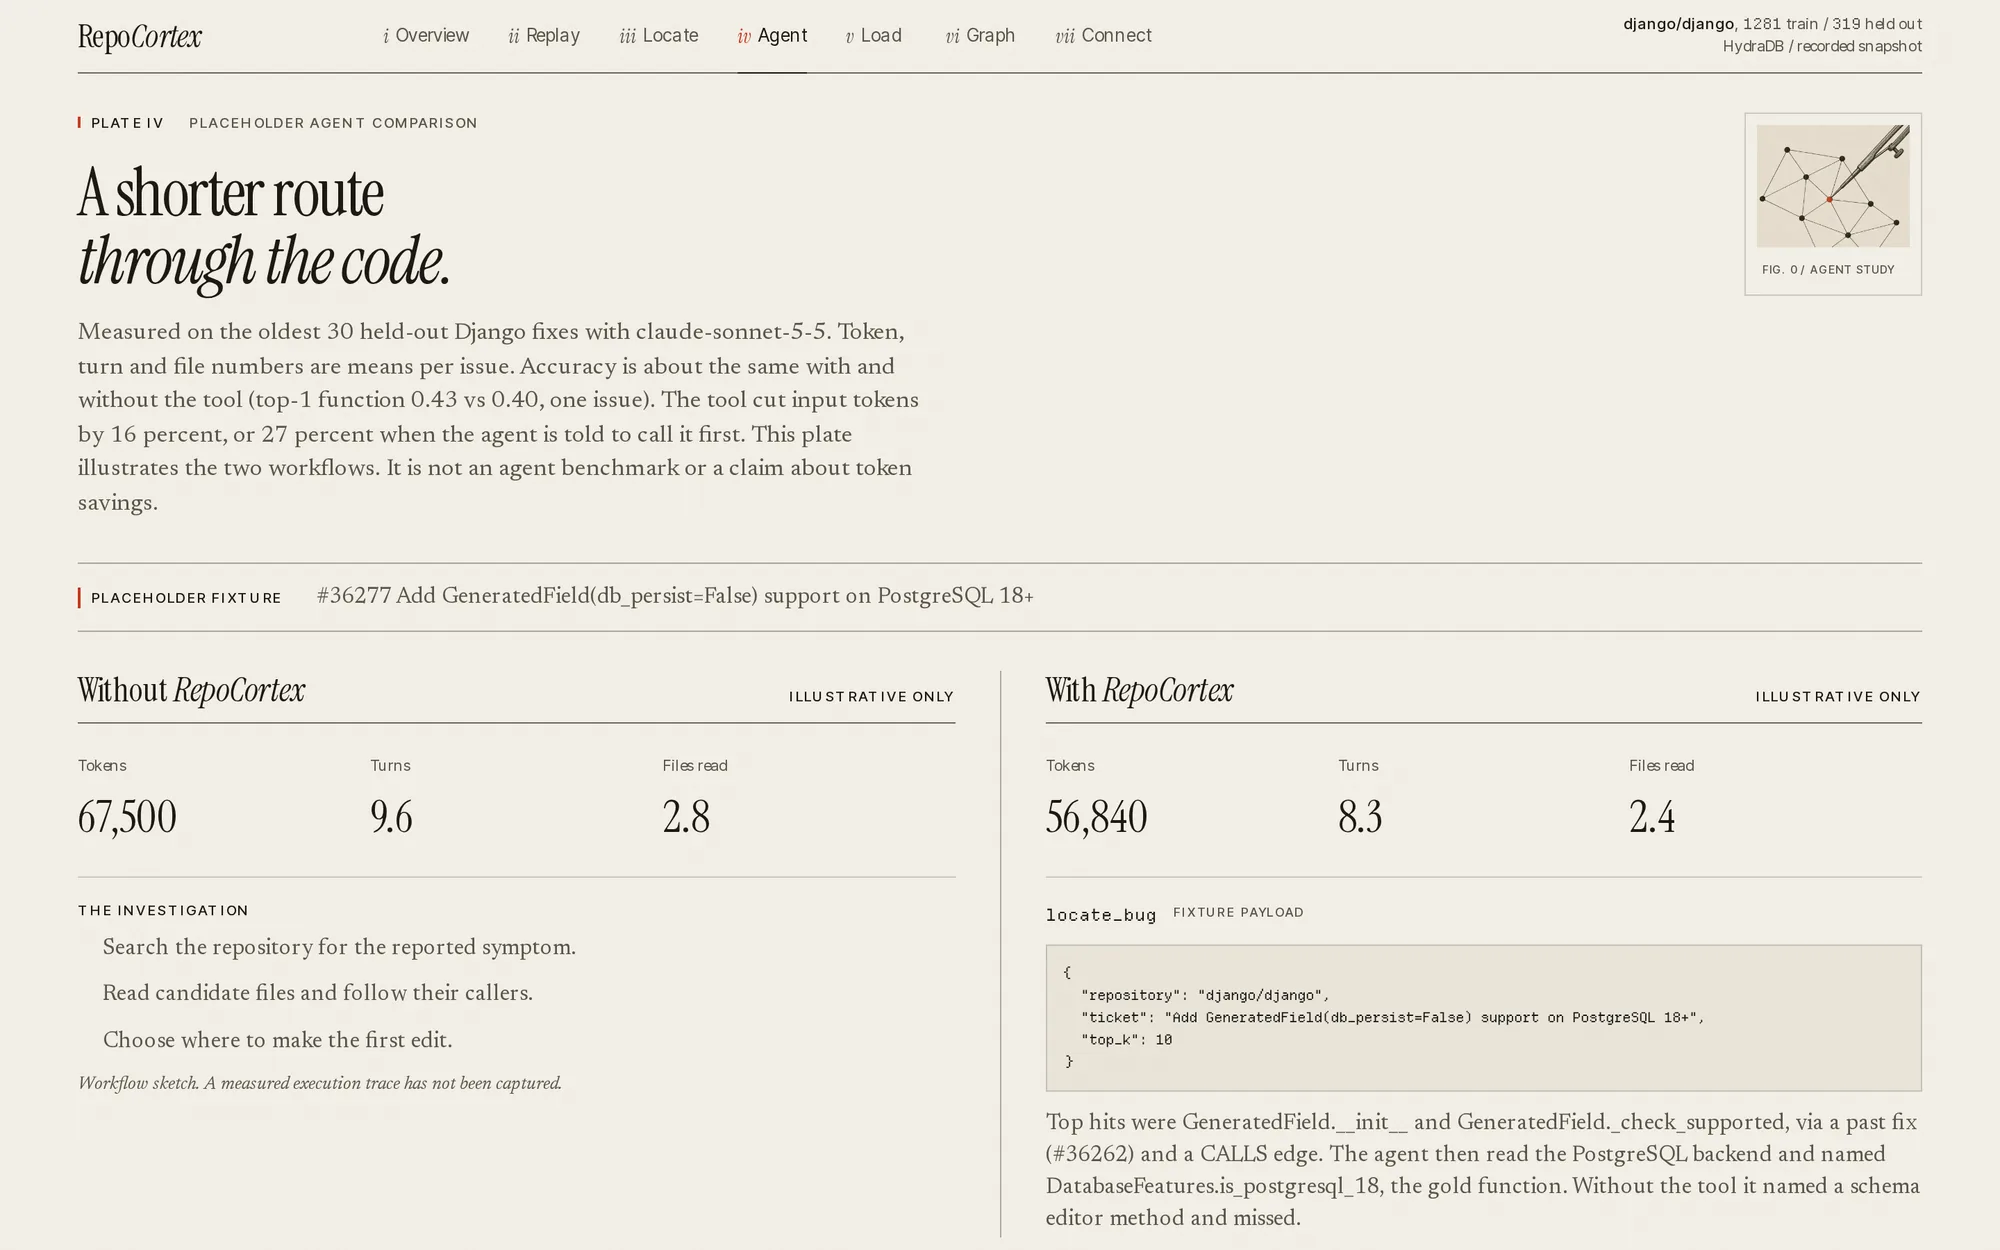
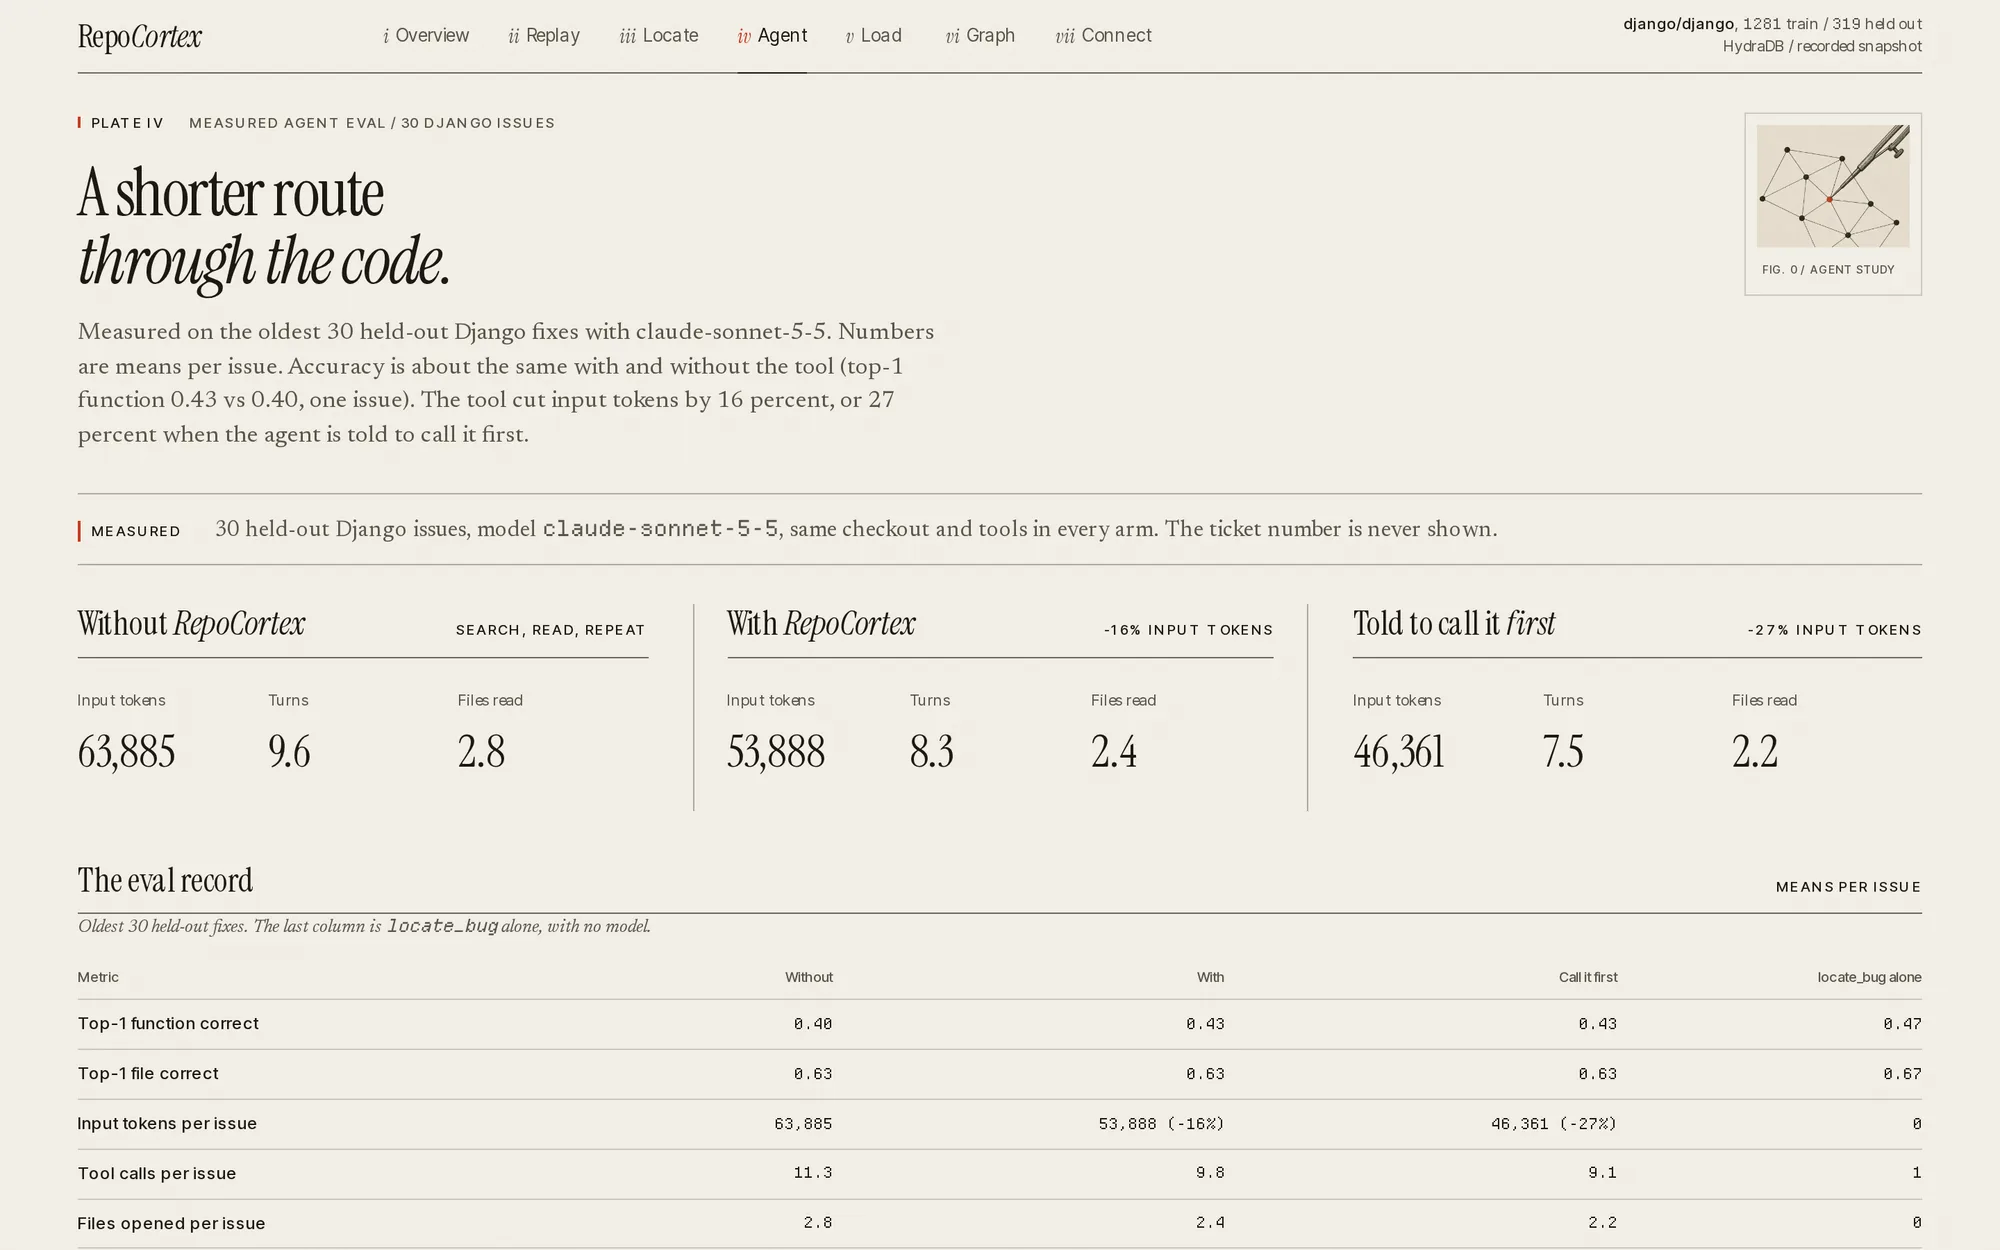
show the measured agent eval on the agent screen

diff --git a/web/app/app/agent/page.tsx b/web/app/app/agent/page.tsx
@@ -2,22 +2,53 @@ import type { Metadata } from "next";
 import Link from "next/link";
 import { PlateHeading } from "@/components/dashboard/plate-heading";
 import agent from "@/public/data/agent.json";
-import provenance from "@/public/data/provenance.json";
 
 export const metadata: Metadata = { title: "Agent" };
 
+const n = (value: number) => value.toLocaleString("en-US");
+const share = (value: number) => value.toFixed(2);
+const usd = (value: number) => `$${value.toFixed(3)}`;
+
+const arms = [
+  { key: "without", title: <>Without <i>RepoCortex</i></>, note: "search, read, repeat" },
+  { key: "with", title: <>With <i>RepoCortex</i></>, note: `-${agent.savings.with_input_tokens_pct}% input tokens` },
+  { key: "with_locate_first", title: <>Told to call it <i>first</i></>, note: `-${agent.savings.first_input_tokens_pct}% input tokens` },
+] as const;
+
 export default function Agent() {
+  const rows: [string, string, string, string, string][] = [
+    ["Top-1 function correct", share(agent.without.top1_function_hit), share(agent.with.top1_function_hit), share(agent.with_locate_first.top1_function_hit), share(agent.tool_only.top1_function_hit)],
+    ["Top-1 file correct", share(agent.without.top1_file_hit), share(agent.with.top1_file_hit), share(agent.with_locate_first.top1_file_hit), share(agent.tool_only.top1_file_hit)],
+    ["Input tokens per issue", n(agent.without.tokens), `${n(agent.with.tokens)} (-${agent.savings.with_input_tokens_pct}%)`, `${n(agent.with_locate_first.tokens)} (-${agent.savings.first_input_tokens_pct}%)`, "0"],
+    ["Tool calls per issue", String(agent.without.tool_calls_mean), String(agent.with.tool_calls_mean), String(agent.with_locate_first.tool_calls_mean), "1"],
+    ["Files opened per issue", String(agent.without.files_read), String(agent.with.files_read), String(agent.with_locate_first.files_read), "0"],
+    ["Cost per issue", usd(agent.without.cost_usd_mean), `${usd(agent.with.cost_usd_mean)} (-${agent.savings.with_cost_pct}%)`, `${usd(agent.with_locate_first.cost_usd_mean)} (-${agent.savings.first_cost_pct}%)`, "$0"],
+  ];
   return (
     <div className="manual-page supporting-screen">
-      <PlateHeading chapter="agent" title={<>A shorter route<br /><i>through the code.</i></>} placeholder="Placeholder agent comparison"><p>{agent.note} This plate illustrates the two workflows. It is not an agent benchmark or a claim about token savings.</p></PlateHeading>
-      <div className="fixture-banner"><span className="sc">Placeholder fixture</span><p>{agent.ticket}</p></div>
-      <div className="agent-comparison">
-        {(["without", "with"] as const).map((mode) => <section key={mode} aria-labelledby={`agent-${mode}-title`}><div className="section-rule"><h2 id={`agent-${mode}-title`}>{mode === "with" ? <>With <i>RepoCortex</i></> : <>Without <i>RepoCortex</i></>}</h2><span className="sc">Illustrative only</span></div>
-          <dl className="agent-fixture-numbers"><div><dt>Tokens</dt><dd>{agent[mode].tokens.toLocaleString("en-US")}</dd></div><div><dt>Turns</dt><dd>{agent[mode].turns}</dd></div><div><dt>Files read</dt><dd>{agent[mode].files_read}</dd></div></dl>
-          {mode === "without" ? <div className="agent-workflow"><p className="sc">The investigation</p><ol><li>Search the repository for the reported symptom.</li><li>Read candidate files and follow their callers.</li><li>Choose where to make the first edit.</li></ol><p className="figure-note">Workflow sketch. A measured execution trace has not been captured.</p></div> : <div className="agent-tool-calls">{agent.with.tool_calls.map((call) => <details key={call.name} open><summary>{call.name} <span className="sc">Fixture payload</span></summary><pre>{JSON.stringify(call.args, null, 2)}</pre><p className="manual-prose">{call.result_summary}</p></details>)}</div>}
+      <PlateHeading chapter="agent" title={<>A shorter route<br /><i>through the code.</i></>} placeholder={`Measured agent eval / ${agent.n} Django issues`}><p>{agent.note}</p></PlateHeading>
+      <div className="fixture-banner"><span className="sc">Measured</span><p>{agent.n} held-out Django issues, model <code>{agent.model}</code>, same checkout and tools in every arm. The ticket number is never shown.</p></div>
+      <div className="agent-comparison agent-comparison-three">
+        {arms.map((arm) => <section key={arm.key} aria-labelledby={`agent-${arm.key}-title`}><div className="section-rule"><h2 id={`agent-${arm.key}-title`}>{arm.title}</h2><span className="sc">{arm.note}</span></div>
+          <dl className="agent-fixture-numbers"><div><dt>Input tokens</dt><dd>{n(agent[arm.key].tokens)}</dd></div><div><dt>Turns</dt><dd>{agent[arm.key].turns}</dd></div><div><dt>Files read</dt><dd>{agent[arm.key].files_read}</dd></div></dl>
         </section>)}
       </div>
-      <aside className="measured-aside"><span className="sc">What is measured</span><p>The held-out provenance contains <span className="num">{provenance.hits_with_fixed_in}</span> hits with FIXED_IN evidence and <span className="num">{provenance.hits_with_shortcut}</span> with SHORTCUT evidence. These counts can overlap. They do not measure agent efficiency.</p><Link href="/app/locate">Inspect a real receipt →</Link></aside>
+      <section className="agent-table" aria-labelledby="agent-table-title">
+        <div className="section-rule"><h2 id="agent-table-title">The eval record</h2><span className="sc">Means per issue</span></div>
+        <div className="manual-table-scroll" role="region" aria-label="Agent eval results" tabIndex={0}>
+          <table className="manual-table">
+            <caption>Oldest {agent.n} held-out fixes. The last column is <code>locate_bug</code> alone, with no model.</caption>
+            <thead><tr><th scope="col">Metric</th><th scope="col">Without</th><th scope="col">With</th><th scope="col">Call it first</th><th scope="col">locate_bug alone</th></tr></thead>
+            <tbody>{rows.map(([label, ...cells]) => <tr key={label}><th scope="row">{label}</th>{cells.map((cell, index) => <td key={index}>{cell}</td>)}</tr>)}</tbody>
+          </table>
+        </div>
+        <p className="figure-note">Accuracy is within noise across arms: one issue out of {agent.n}. <code>locate_bug</code> alone names the right function first {share(agent.tool_only.top1_function_hit)} of the time against {share(agent.without.top1_function_hit)} for the agent searching by itself, in under a second and with no model call.</p>
+      </section>
+      <section className="agent-example" aria-labelledby="agent-example-title">
+        <div className="section-rule"><h2 id="agent-example-title">One run, <i>{agent.ticket}</i></h2><span className="sc">Measured trace</span></div>
+        <div className="agent-tool-calls">{agent.with.tool_calls.map((call) => <details key={call.name} open><summary>{call.name}</summary><pre>{JSON.stringify(call.args, null, 2)}</pre><p className="manual-prose">{call.result_summary}</p></details>)}</div>
+      </section>
+      <aside className="measured-aside"><span className="sc">Source</span><p><code>{agent.source}</code> and <code>{agent.tool_only.source}</code>. Thirty issues, one model, one run each, so small differences are noise.</p><Link href="/app/locate">Inspect a real receipt →</Link></aside>
     </div>
   );
 }

diff --git a/web/app/page.tsx b/web/app/page.tsx
@@ -119,38 +119,38 @@ export default function Home() {
             <SectionHead number="04" label="Context" title="Your agent reads less." />
             <FixtureLabel show={agent.placeholder} />
           </div>
-          <p className="section-dek">Same agent, same ticket. One of them read half the repo first.</p>
+          <p className="section-dek">Same agent, same {agent.n} tickets. One of them asked the graph first.</p>
           <p className="news source-note">{agent.note}</p>
           <p className="terminal-ticket"><span className="sc">Ticket</span> {agent.ticket}</p>
           <div className="terminal-pair">
             {(["without", "with"] as const).map((mode) => (
               <figure className={`terminal terminal-${mode}`} key={mode}>
-                <figcaption><span className="sc">{mode === "with" ? "With RepoCortex" : "Without RepoCortex"}</span><span className="num">trace / illustrative</span></figcaption>
+                <figcaption><span className="sc">{mode === "with" ? "With RepoCortex" : "Without RepoCortex"}</span><span className="num">measured run</span></figcaption>
                 <div className="terminal-body num">
                   {mode === "without" ? (
                     <>
                       <p><span className="terminal-prompt">$</span> investigate ticket</p>
-                      <p className="terminal-muted">› search &quot;ModelChoiceField&quot;<br />› read django/forms/fields.py<br />› read django/forms/forms.py<br />› search &quot;to_field_name&quot;<br />› read django/forms/models.py<br />› read django/db/models/query.py<br />… follow references, read, repeat</p>
+                      <p className="terminal-muted">› search_code x {agent.example.without.calls_by_tool.search_code}<br />› read_file x {agent.example.without.calls_by_tool.read_file}<br />› {agent.example.without.files_opened} files opened<br />› {agent.example.without.turns} turns, {number(agent.example.without.tokens_in)} input tokens</p>
                     </>
                   ) : (
                     <>
                       <p><span className="terminal-prompt">$</span> {agent.with.tool_calls[0].name}(&#123;</p>
-                      <p className="terminal-muted indent">repository: &quot;{agent.with.tool_calls[0].args.repository}&quot;,<br />ticket: &quot;{agent.ticket}&quot;,<br />top_k: {agent.with.tool_calls[0].args.top_k}</p>
+                      <p className="terminal-muted indent">report: &quot;{agent.with.tool_calls[0].args.report}&quot;,<br />k: {agent.with.tool_calls[0].args.k}</p>
                       <p>&#125;)</p>
                       <p className="terminal-result">{agent.with.tool_calls[0].result_summary}</p>
-                      <p className="terminal-muted">› inspect the returned functions<br />› prepare a targeted edit</p>
+                      <p className="terminal-muted">› {agent.example.with.turns} turns, {number(agent.example.with.tokens_in)} input tokens</p>
                     </>
                   )}
                 </div>
                 <dl className="terminal-stats">
-                  <div><dt>Context tokens</dt><dd className="num">{number(agent[mode].tokens)}</dd></div>
+                  <div><dt>Input tokens, mean</dt><dd className="num">{number(agent[mode].tokens)}</dd></div>
                   <div><dt>Turns</dt><dd className="num">{agent[mode].turns}</dd></div>
                   <div><dt>Files read</dt><dd className="num">{agent[mode].files_read}</dd></div>
                 </dl>
               </figure>
             ))}
           </div>
-          <p className="figure-caption"><b>FIG. 4</b> A preview of the comparison, not a measured token-saving claim.</p>
+          <p className="figure-caption"><b>FIG. 4</b> Traces are one measured run on {agent.ticket}. Totals are means over {agent.n} held-out issues with {agent.model}: {agent.savings.with_input_tokens_pct}% fewer input tokens with the tool, {agent.savings.first_input_tokens_pct}% when told to call it first.</p>
         </section>
 
         <section className="landing-section load-section">

diff --git a/web/lib/data.ts b/web/lib/data.ts
@@ -127,12 +127,35 @@ export interface ProvenanceData {
 
 interface AgentTrace {
   tokens: number;
+  output_tokens: number;
   turns: number;
   files_read: number;
+  tool_calls_mean: number;
+  locate_bug_calls_mean: number;
+  top1_function_hit: number;
+  top1_file_hit: number;
+  "function_acc@5": number;
+  cost_usd_mean: number;
+  wall_s_mean: number;
 }
 
-export interface AgentData extends PlaceholderData {
+interface AgentRun {
+  tool_calls: number;
+  turns: number;
+  tokens_in: number;
+  files_opened: number;
+  calls_by_tool: Record<string, number>;
+}
+
+export interface AgentData {
+  placeholder: false;
+  source: string;
+  model: string;
+  n: number;
+  note: string;
+  savings: { with_input_tokens_pct: number; first_input_tokens_pct: number; with_cost_pct: number; first_cost_pct: number };
   ticket: string;
+  example: { ticket: number; without: AgentRun; with: AgentRun };
   without: AgentTrace;
   with: AgentTrace & {
     tool_calls: {
@@ -141,6 +164,8 @@ export interface AgentData extends PlaceholderData {
       result_summary: string;
     }[];
   };
+  with_locate_first: AgentTrace;
+  tool_only: { top1_function_hit: number; top1_file_hit: number; "function_acc@5": number; mrr: number; source: string };
 }
 
 export interface LoadTest {

diff --git a/web/app/app/dashboard.css b/web/app/app/dashboard.css
@@ -366,3 +366,14 @@
 }
 
 .connection-record a, .measured-aside a { display: inline-flex; align-items: center; min-height: 44px; }
+.agent-comparison-three { grid-template-columns: repeat(3, minmax(0, 1fr)); }
+.agent-comparison-three > section { padding-inline: 24px; border-left: 1px solid var(--rule-mid); }
+.agent-comparison-three > section:first-child { padding-left: 0; border-left: 0; }
+.agent-comparison-three > section:last-child { padding-right: 0; }
+.agent-table, .agent-example { margin-top: 36px; }
+.agent-table .manual-table td { text-align: right; }
+.agent-table .manual-table thead th:not(:first-child) { text-align: right; }
+@media (max-width: 860px) {
+  .agent-comparison-three { grid-template-columns: 1fr; }
+  .agent-comparison-three > section, .agent-comparison-three > section:first-child, .agent-comparison-three > section:last-child { padding-inline: 0; border-left: 0; border-top: 1px solid var(--rule-mid); }
+}
